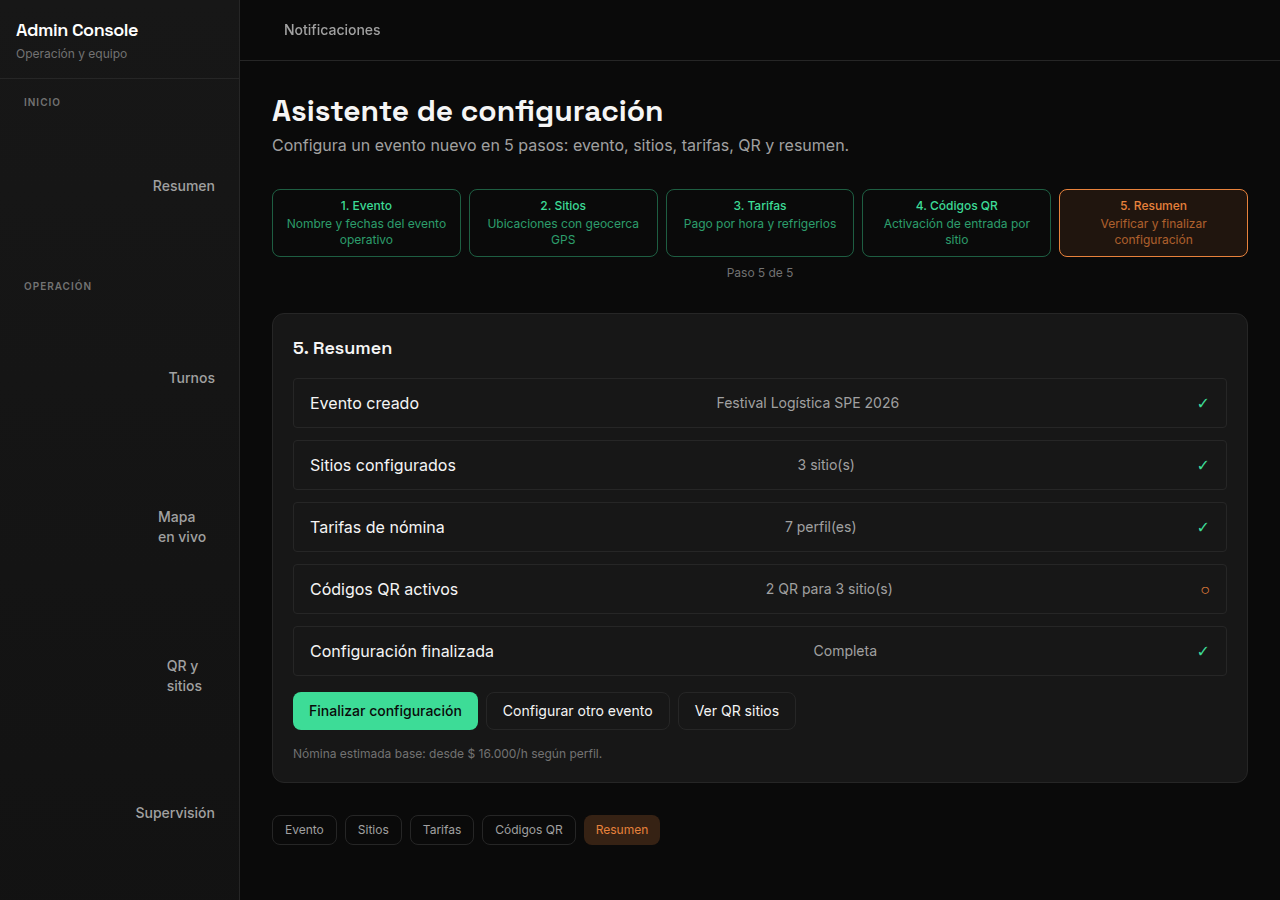
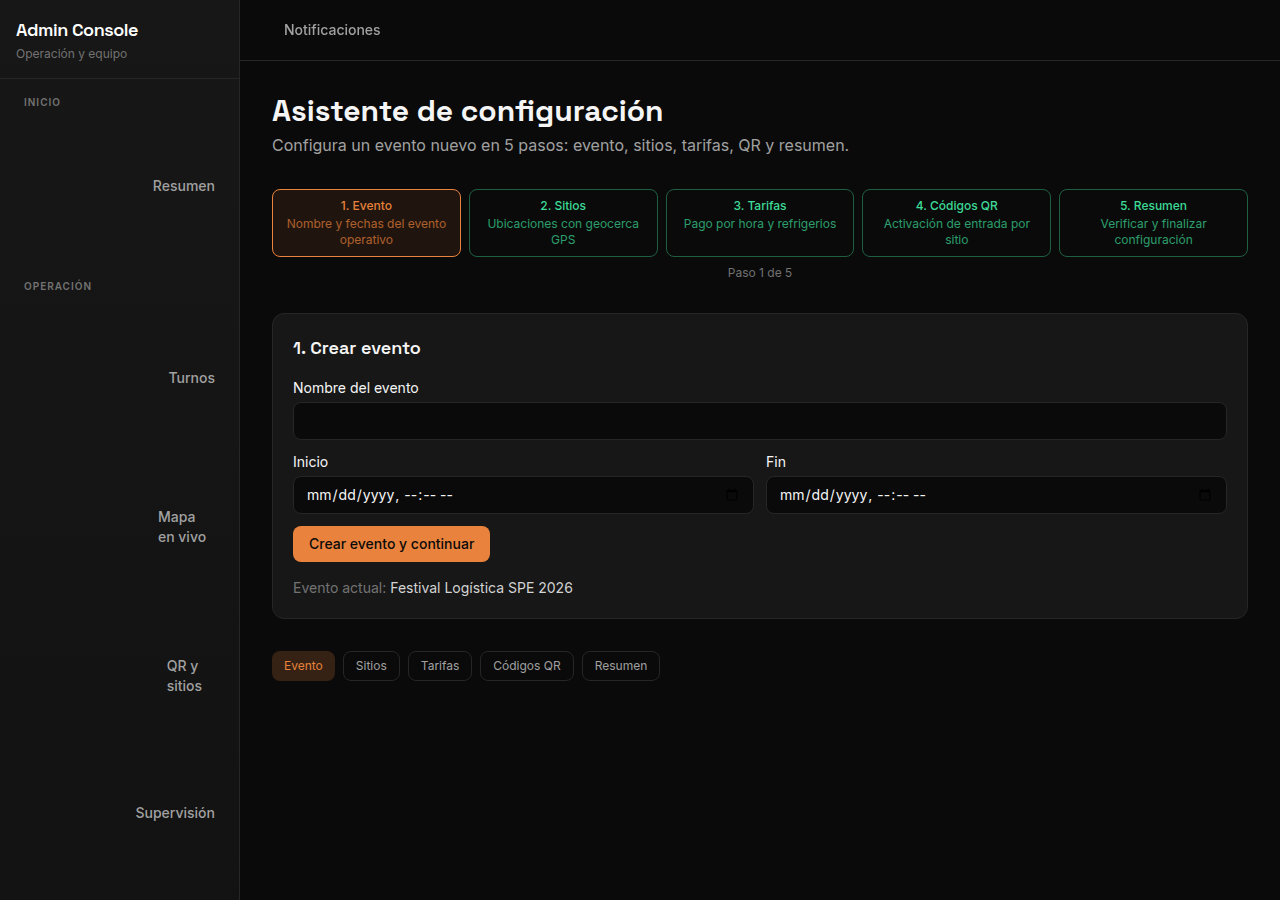
fix(tutorial): cache-bust reforzado y captura de Configuración paso 1
- Meta no-cache en el HTML del tutorial para evitar PNGs antiguos en el navegador.
- Nueva versión de imágenes ?v=2026071721.
- Captura de /configuracion en paso «Evento» (alineado con el texto del tutorial).
- Nota visible sobre recarga forzada Ctrl+F5.

diff --git a/docs-source/TUTORIAL-APP-SPE.html b/docs-source/TUTORIAL-APP-SPE.html
@@ -3,6 +3,9 @@
 <head>
   <meta charset="UTF-8" />
   <meta name="viewport" content="width=device-width, initial-scale=1.0" />
+  <meta http-equiv="Cache-Control" content="no-cache, no-store, must-revalidate" />
+  <meta http-equiv="Pragma" content="no-cache" />
+  <meta http-equiv="Expires" content="0" />
   <title>Tutorial SPE — Guía completa paso a paso</title>
   <style>
     :root {
@@ -225,6 +228,7 @@
         <a href="https://lasucursaldelcafe-droid.github.io/Programa-de-logistca/" style="color:var(--link)">GitHub Pages SPE</a>
         · <strong>Tutorial:</strong> este documento
       </p>
+      <p style="margin-top:0.5rem;font-size:0.85rem;color:var(--muted)">Si las capturas no coinciden con el texto, recarga forzada: <kbd>Ctrl+F5</kbd> (Windows) o <kbd>Cmd+Shift+R</kbd> (Mac).</p>
     </header>
 
     <nav class="toc">
@@ -355,7 +359,7 @@
           <dd>Enlace a la guía integrada → <code>/ayuda</code>.</dd>
         </dl>
         <figure>
-          <img src="tutorial-imagenes/01-login.png?v=20260718" alt="Pantalla de inicio de sesión" width="1280" height="720" />
+          <img src="tutorial-imagenes/01-login.png?v=2026071721" alt="Pantalla de inicio de sesión" width="1280" height="720" />
           <figcaption>Pantalla de login — punto de entrada único</figcaption>
         </figure>
       </div>
@@ -375,7 +379,7 @@
         </ol>
         <div class="warn"><strong>Importante:</strong> El trabajador no tiene usuario fijo de fábrica. Sin invitación del admin en Cuentas, este paso fallará.</div>
         <figure>
-          <img src="tutorial-imagenes/02-unirse.png?v=20260718" alt="Unirse con código" width="1280" height="720" />
+          <img src="tutorial-imagenes/02-unirse.png?v=2026071721" alt="Unirse con código" width="1280" height="720" />
           <figcaption>Unirse — verificación de invitación</figcaption>
         </figure>
       </div>
@@ -395,7 +399,7 @@
           <li>Si falta teléfono → redirige a Completar perfil; si no → panel del rol.</li>
         </ol>
         <figure>
-          <img src="tutorial-imagenes/26-activar-cuenta.png?v=20260718" alt="Activar cuenta con contraseña" width="1280" height="720" />
+          <img src="tutorial-imagenes/26-activar-cuenta.png?v=2026071721" alt="Activar cuenta con contraseña" width="1280" height="720" />
           <figcaption>Activar cuenta — crear contraseña con código de invitación</figcaption>
         </figure>
       </div>
@@ -413,7 +417,7 @@
           <li>Pulsa <strong>Guardar</strong> → acceso a <code>/worker</code>.</li>
         </ol>
         <figure class="mobile">
-          <img src="tutorial-imagenes/27-completar-perfil.png?v=20260718" alt="Completar perfil trabajador" width="390" height="844" />
+          <img src="tutorial-imagenes/27-completar-perfil.png?v=2026071721" alt="Completar perfil trabajador" width="390" height="844" />
           <figcaption>Completar perfil — teléfono obligatorio</figcaption>
         </figure>
       </div>
@@ -426,7 +430,7 @@
         </div>
         <div class="funcion"><strong>Función:</strong> Guía de uso sin necesidad de iniciar sesión.</div>
         <figure>
-          <img src="tutorial-imagenes/03-ayuda-publica.png?v=20260718" alt="Ayuda pública" width="1280" height="720" />
+          <img src="tutorial-imagenes/03-ayuda-publica.png?v=2026071721" alt="Ayuda pública" width="1280" height="720" />
           <figcaption>Ayuda — accesible desde login</figcaption>
         </figure>
       </div>
@@ -460,7 +464,7 @@
           <li>Usa los accesos del menú lateral para profundizar en cada área.</li>
         </ol>
         <figure>
-          <img src="tutorial-imagenes/04-panel-admin.png?v=20260718" alt="Panel administrador" width="1280" height="720" />
+          <img src="tutorial-imagenes/04-panel-admin.png?v=2026071721" alt="Panel administrador" width="1280" height="720" />
           <figcaption>Resumen — dashboard operativo</figcaption>
         </figure>
       </div>
@@ -517,7 +521,7 @@
           <dd>Puedes avanzar manualmente entre pasos si ya completaste uno antes.</dd>
         </dl>
         <figure>
-          <img src="tutorial-imagenes/05-configuracion.png?v=20260718" alt="Configuración" width="1280" height="720" />
+          <img src="tutorial-imagenes/05-configuracion.png?v=2026071721" alt="Configuración" width="1280" height="720" />
           <figcaption>Asistente de configuración — wizard 5 pasos</figcaption>
         </figure>
       </div>
@@ -550,7 +554,7 @@
         </dl>
         <div class="tip">El supervisor puede registrar personal, pero solo el admin puede asignar rol «Supervisor de sitio».</div>
         <figure>
-          <img src="tutorial-imagenes/06-personal.png?v=20260718" alt="Personal" width="1280" height="720" />
+          <img src="tutorial-imagenes/06-personal.png?v=2026071721" alt="Personal" width="1280" height="720" />
           <figcaption>Personal — registro y gestión de equipo</figcaption>
         </figure>
       </div>
@@ -585,7 +589,7 @@
           <dd>Bloquea el acceso de una cuenta ya activada sin eliminar al trabajador.</dd>
         </dl>
         <figure>
-          <img src="tutorial-imagenes/07-cuentas.png?v=20260718" alt="Cuentas" width="1280" height="720" />
+          <img src="tutorial-imagenes/07-cuentas.png?v=2026071721" alt="Cuentas" width="1280" height="720" />
           <figcaption>Cuentas — invitaciones y activación</figcaption>
         </figure>
       </div>
@@ -616,7 +620,7 @@
         </dl>
         <div class="warn">Sin turno confirmado en el sitio correcto, el check-in con QR puede fallar.</div>
         <figure>
-          <img src="tutorial-imagenes/09-turnos-admin.png?v=20260718" alt="Turnos" width="1280" height="720" />
+          <img src="tutorial-imagenes/09-turnos-admin.png?v=2026071721" alt="Turnos" width="1280" height="720" />
           <figcaption>Turnos — asignación por evento y sitio</figcaption>
         </figure>
       </div>
@@ -652,7 +656,7 @@
           <dd>Para pruebas sin cámara: copia el texto del QR y pégalo en la app trabajador.</dd>
         </dl>
         <figure>
-          <img src="tutorial-imagenes/08-qr-sitios.png?v=20260718" alt="QR sitios" width="1280" height="720" />
+          <img src="tutorial-imagenes/08-qr-sitios.png?v=2026071721" alt="QR sitios" width="1280" height="720" />
           <figcaption>QR Sitios — generación por punto GPS</figcaption>
         </figure>
       </div>
@@ -673,7 +677,7 @@
         </ol>
         <div class="tip">El GPS solo se activa mientras la jornada está abierta (después del check-in hasta el check-out).</div>
         <figure>
-          <img src="tutorial-imagenes/10-mapa.png?v=20260718" alt="Mapa en vivo" width="1280" height="720" />
+          <img src="tutorial-imagenes/10-mapa.png?v=2026071721" alt="Mapa en vivo" width="1280" height="720" />
           <figcaption>Mapa en vivo — supervisión GPS</figcaption>
         </figure>
       </div>
@@ -693,7 +697,7 @@
           <li>Coordina con Reportes si un trabajador envió incidencia.</li>
         </ol>
         <figure>
-          <img src="tutorial-imagenes/22-supervision.png?v=20260718" alt="Supervisión GPS" width="1280" height="720" />
+          <img src="tutorial-imagenes/22-supervision.png?v=2026071721" alt="Supervisión GPS" width="1280" height="720" />
           <figcaption>Supervisión — personal rastreado y KPIs</figcaption>
         </figure>
       </div>
@@ -715,7 +719,7 @@
           <li>Al resolver el problema, pulsa <strong>Marcar resuelto</strong>.</li>
         </ol>
         <figure>
-          <img src="tutorial-imagenes/11-reportes.png?v=20260718" alt="Reportes" width="1280" height="720" />
+          <img src="tutorial-imagenes/11-reportes.png?v=2026071721" alt="Reportes" width="1280" height="720" />
           <figcaption>Reportes — gestión de incidencias</figcaption>
         </figure>
       </div>
@@ -741,7 +745,7 @@
         </ol>
         <div class="warn">Solo se calculan jornadas con estado <strong>cerrado</strong> y salida registrada. Entradas sin salida no generan pago.</div>
         <figure>
-          <img src="tutorial-imagenes/12-nomina.png?v=20260718" alt="Nómina" width="1280" height="720" />
+          <img src="tutorial-imagenes/12-nomina.png?v=2026071721" alt="Nómina" width="1280" height="720" />
           <figcaption>Nómina — cálculo y exportación</figcaption>
         </figure>
       </div>
@@ -778,7 +782,7 @@
           <dd>Acceso rápido a notificaciones desde cualquier pantalla admin.</dd>
         </dl>
         <figure>
-          <img src="tutorial-imagenes/13-notificaciones.png?v=20260718" alt="Notificaciones" width="1280" height="720" />
+          <img src="tutorial-imagenes/13-notificaciones.png?v=2026071721" alt="Notificaciones" width="1280" height="720" />
           <figcaption>Notificaciones — emergencias y bandeja</figcaption>
         </figure>
       </div>
@@ -797,7 +801,7 @@
         </ul>
         <div class="tip">Para datos reales, conecta Siigo en Integraciones y sincroniza.</div>
         <figure>
-          <img src="tutorial-imagenes/23-clientes.png?v=20260718" alt="Clientes" width="1280" height="720" />
+          <img src="tutorial-imagenes/23-clientes.png?v=2026071721" alt="Clientes" width="1280" height="720" />
           <figcaption>Clientes — cartera y contactos</figcaption>
         </figure>
       </div>
@@ -814,7 +818,7 @@
           <li>Lista con número, cliente, fecha, estado y valor.</li>
         </ul>
         <figure>
-          <img src="tutorial-imagenes/24-facturacion.png?v=20260718" alt="Facturación" width="1280" height="720" />
+          <img src="tutorial-imagenes/24-facturacion.png?v=2026071721" alt="Facturación" width="1280" height="720" />
           <figcaption>Facturación — documentos emitidos y por cobrar</figcaption>
         </figure>
       </div>
@@ -831,7 +835,7 @@
           <li>Tabla con referencia, nombre, stock, precio.</li>
         </ul>
         <figure>
-          <img src="tutorial-imagenes/25-inventario.png?v=20260718" alt="Inventario" width="1280" height="720" />
+          <img src="tutorial-imagenes/25-inventario.png?v=2026071721" alt="Inventario" width="1280" height="720" />
           <figcaption>Inventario — stock y referencias</figcaption>
         </figure>
       </div>
@@ -863,7 +867,7 @@
           <dd>Elimina credenciales almacenadas de forma segura.</dd>
         </dl>
         <figure>
-          <img src="tutorial-imagenes/14-integraciones.png?v=20260718" alt="Integraciones" width="1280" height="720" />
+          <img src="tutorial-imagenes/14-integraciones.png?v=2026071721" alt="Integraciones" width="1280" height="720" />
           <figcaption>Integraciones — conexión de APIs</figcaption>
         </figure>
       </div>
@@ -896,7 +900,7 @@
           <li>Usa el botón de escaneo rápido si estás en el sitio.</li>
         </ol>
         <figure class="mobile">
-          <img src="tutorial-imagenes/18-worker-inicio.png?v=20260718" alt="Inicio trabajador" width="390" height="844" />
+          <img src="tutorial-imagenes/18-worker-inicio.png?v=2026071721" alt="Inicio trabajador" width="390" height="844" />
           <figcaption>Inicio — resumen del trabajador</figcaption>
         </figure>
       </div>
@@ -914,7 +918,7 @@
           <li>Enlace directo a <strong>Marcar entrada con QR</strong> cuando estés listo.</li>
         </ol>
         <figure class="mobile">
-          <img src="tutorial-imagenes/19-worker-turnos.png?v=20260718" alt="Turnos trabajador" width="390" height="844" />
+          <img src="tutorial-imagenes/19-worker-turnos.png?v=2026071721" alt="Turnos trabajador" width="390" height="844" />
           <figcaption>Turnos — aceptar o rechazar</figcaption>
         </figure>
       </div>
@@ -943,7 +947,7 @@
         </ol>
         <div class="warn">Si estás fuera de la geocerca, se registra alerta al administrador. El GPS es obligatorio.</div>
         <figure class="mobile">
-          <img src="tutorial-imagenes/20-worker-entrada.png?v=20260718" alt="Marcar entrada" width="390" height="844" />
+          <img src="tutorial-imagenes/20-worker-entrada.png?v=2026071721" alt="Marcar entrada" width="390" height="844" />
           <figcaption>Escanear — consentimiento GPS antes de marcar entrada</figcaption>
         </figure>
       </div>
@@ -961,7 +965,7 @@
           <li>El reporte aparece en Admin → Reportes en segundos.</li>
         </ol>
         <figure class="mobile">
-          <img src="tutorial-imagenes/21-worker-reportar.png?v=20260718" alt="Reportar" width="390" height="844" />
+          <img src="tutorial-imagenes/21-worker-reportar.png?v=2026071721" alt="Reportar" width="390" height="844" />
           <figcaption>Reportar — incidencias al supervisor</figcaption>
         </figure>
       </div>
@@ -978,7 +982,7 @@
           <li>Desde turnos pendientes en notificaciones, acepta o rechaza directamente.</li>
         </ol>
         <figure class="mobile">
-          <img src="tutorial-imagenes/28-worker-notificaciones.png?v=20260718" alt="Alertas trabajador" width="390" height="844" />
+          <img src="tutorial-imagenes/28-worker-notificaciones.png?v=2026071721" alt="Alertas trabajador" width="390" height="844" />
           <figcaption>Alertas — notificaciones del trabajador</figcaption>
         </figure>
       </div>
@@ -1008,7 +1012,7 @@
           <li>Vista rápida de salud de la plataforma.</li>
         </ul>
         <figure>
-          <img src="tutorial-imagenes/15-master-panel.png?v=20260718" alt="Panel Master" width="1280" height="720" />
+          <img src="tutorial-imagenes/15-master-panel.png?v=2026071721" alt="Panel Master" width="1280" height="720" />
           <figcaption>Master — resumen global</figcaption>
         </figure>
       </div>
@@ -1021,7 +1025,7 @@
         <div class="funcion"><strong>Función:</strong> Listado de cuentas con rol administrador (solo lectura).</div>
         <div class="tip">Para crear nuevos administradores: Admin → Personal (rol admin) → Cuentas (invitar). Master no crea cuentas directamente.</div>
         <figure>
-          <img src="tutorial-imagenes/29-master-administradores.png?v=20260718" alt="Administradores Master" width="1280" height="720" />
+          <img src="tutorial-imagenes/29-master-administradores.png?v=2026071721" alt="Administradores Master" width="1280" height="720" />
           <figcaption>Master — listado de administradores</figcaption>
         </figure>
       </div>
@@ -1038,7 +1042,7 @@
           <li>Se descarga <code>informe-plataforma-YYYY-MM-DD.csv</code> para análisis en Excel.</li>
         </ol>
         <figure>
-          <img src="tutorial-imagenes/16-master-informes.png?v=20260718" alt="Informes Master" width="1280" height="720" />
+          <img src="tutorial-imagenes/16-master-informes.png?v=2026071721" alt="Informes Master" width="1280" height="720" />
           <figcaption>Informes — exportación CSV global</figcaption>
         </figure>
       </div>
@@ -1054,7 +1058,7 @@
           <li>Quién ejecutó la acción, cuándo y detalle.</li>
         </ul>
         <figure>
-          <img src="tutorial-imagenes/17-master-auditoria.png?v=20260718" alt="Auditoría" width="1280" height="720" />
+          <img src="tutorial-imagenes/17-master-auditoria.png?v=2026071721" alt="Auditoría" width="1280" height="720" />
           <figcaption>Auditoría — historial de nómina</figcaption>
         </figure>
       </div>

diff --git a/scripts/capture-tutorial-screenshots.ts b/scripts/capture-tutorial-screenshots.ts
@@ -120,6 +120,15 @@ async function capture(page: Page, { file, path, waitMs = 1400, before, skipGoto
   console.log(`+ ${file}  ←  ${path}`);
 }
 
+async function clickWizardStep(page: Page, stepTitle: string): Promise<void> {
+  await page.evaluate((title) => {
+    const btn = [...document.querySelectorAll("button")].find((b) =>
+      b.textContent?.trim().startsWith(title),
+    );
+    btn?.click();
+  }, stepTitle);
+}
+
 async function main(): Promise<void> {
   mkdirSync(OUT, { recursive: true });
 
@@ -141,7 +150,11 @@ async function main(): Promise<void> {
 
   const adminShots: Shot[] = [
     { file: "04-panel-admin.png", path: "/panel", waitMs: 2000 },
-    { file: "05-configuracion.png", path: "/configuracion", waitMs: 1800 },
+    { file: "05-configuracion.png", path: "/configuracion", waitMs: 1800, before: async (p) => {
+      await p.goto(`${BASE}/configuracion`, { waitUntil: "networkidle0" });
+      await clickWizardStep(p, "Evento");
+      await new Promise((r) => setTimeout(r, 600));
+    }, skipGoto: true },
     { file: "06-personal.png", path: "/personal" },
     { file: "07-cuentas.png", path: "/cuentas" },
     { file: "08-qr-sitios.png", path: "/qr-sitios" },